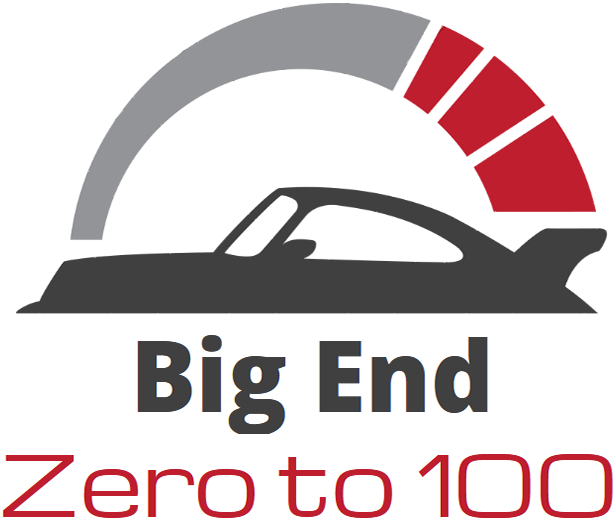
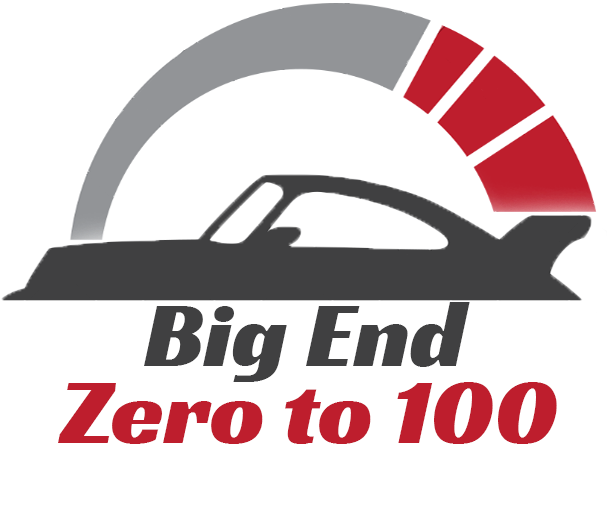
Updated Code Page
Updated Code.html
Updated BigEndIcon
Updated BrandIconLogo
Updated BrandNameLogo
Updated favicon-32x32

Changed region(s): [[0.0, 0.3077, 1.0, 1.0], [0.3404, 0.9231, 0.4332, 1.0]]

diff --git a/app.html b/app.html
@@ -2,7 +2,7 @@
 <html lang="en" class="h-100">
 
 <head>
-    <title>App Name: A Coding Project by William Kategianes</title>
+    <title>Big End: A Coding Project by William Kategianes</title>
     <!-- Required meta tags -->
     <meta charset="utf-8">
     <meta name="viewport" content="width=device-width, initial-scale=1, shrink-to-fit=no">
@@ -22,7 +22,7 @@
 <!-- ===== Nav Section ===== -->
 <nav class="navbar navbar-expand-md navbar-dark fixed-top">
     <div class="container-fluid">
-        <a class="navbar-brand" href="#"><img src="img/BrandIconLogo.png" class="d-inline-block align-text-top" width="30" height="24" > App Name</a>
+        <a class="navbar-brand logofont" href="#"><img src="img/BrandIconLogo.png" class="d-inline-block align-text-top" width="30" height="30" > Big End</a>
         <button class="navbar-toggler" type="button" data-bs-toggle="collapse" data-bs-target="#navbarCollapse"
             aria-controls="navbarCollapse" aria-expanded="false" aria-label="Toggle navigation">
             <span class="navbar-toggler-icon"></span>
@@ -51,8 +51,47 @@
 
 <!-- ===== Main Section ===== -->
 <main class="flex-shrink-0">
-    <div class="container">
+    <div class="container mt-5">
+        <div class="row row-cols-1 row-cols-lg-2">
+            <div class="col col-lg-4 border-end border-2">
+                <h1>Big End: A Coding Project</h1>
+                <h4 class="lead">
+                    Live life one loop at a time. A javascript coding exercise using loops. Write a
+                    program that displays the numbers from 0 to 100. Display the evening numbers in <strong>BOLD.</strong>
+                </h4>
+                <h2 class="mt-5 border-bottom border-2">Instructions</h2>
+                <p>Enter a starting value and a ending value. Press the button and the values will appear.</p>
 
+            </div>
+
+            <div class="col col-lg-8">
+                <div>
+                    <h5>Enter Values</h5>
+                    <form class="row gy-2 gx-3">
+                        <div class="col">
+                            <input id="startValue" type="number" class="form-control" placeholder="Start Value" value="0" aria-label="Start Value">
+                        </div>
+                        <div class="col">
+                            <input id="endValue" type="number" class="form-control" placeholder="End Value" value="100" aria-label="End Value">
+                        </div>
+                        <div class="col-12 d-flex justify-content-end">
+                            <button id="btnSubmit" type="button" class="btn btn-dark btn-lg">Display the Big End</button>
+
+                        </div>
+                    </form>
+
+                    <h2 class="mt-5 border-bottom border-2">Results</h2>
+                    <div class="table-responsive">
+                        <table class="table table-striped table-sm">
+                            <tbody id="results">
+                                <!-- Results Go Here -->
+
+                            </tbody>
+                        </table>
+                    </div>
+                </div>
+            </div>
+        </div>
     </div>
 </main>
 

diff --git a/index.html b/index.html
@@ -2,7 +2,7 @@
 <html lang="en" class="h-100">
 
 <head>
-    <title>App Name: A Coding Project by William Kategianes</title>
+    <title>Big End: A Coding Project by William Kategianes</title>
     <!-- Required meta tags -->
     <meta charset="utf-8">
     <meta name="viewport" content="width=device-width, initial-scale=1, shrink-to-fit=no">
@@ -15,6 +15,11 @@
     <link rel="icon" type="image/png" href="img/favicon-32x32.png">
 
     <script src="https://kit.fontawesome.com/5db21ba9c6.js" crossorigin="anonymous"></script>
+
+    <!-- Google Fonts for Racing Sans One -->
+    <link rel="preconnect" href="https://fonts.googleapis.com">
+    <link rel="preconnect" href="https://fonts.gstatic.com" crossorigin>
+    <link href="https://fonts.googleapis.com/css2?family=Racing+Sans+One&display=swap" rel="stylesheet"> 
   
 </head>
 
@@ -22,7 +27,7 @@
 <!-- ===== Nav Section ===== -->
 <nav class="navbar navbar-expand-md navbar-dark fixed-top">
     <div class="container-fluid">
-        <a class="navbar-brand" href="#"><img src="img/BrandIconLogo.png" class="d-inline-block align-text-top" width="30" height="24" > App Name</a>
+        <a class="navbar-brand logofont" href="#"><img src="img/BrandIconLogo.png" class="d-inline-block align-text-top" width="30" height="30" > Big End</a>
         <button class="navbar-toggler" type="button" data-bs-toggle="collapse" data-bs-target="#navbarCollapse"
             aria-controls="navbarCollapse" aria-expanded="false" aria-label="Toggle navigation">
             <span class="navbar-toggler-icon"></span>
@@ -53,7 +58,7 @@
        <div class="container col-xxl-8 px-4 py-5">
             <div class="row g-5 py-5 row-cols-1 row-cols-lg-2">
                 <div class="col order-last order-lg-first">
-                    <h1 class="display-5 fw-bold lh-1 mb-3">App Name: A Coding Project</h1>
+                    <h1 class="display-5 fw-bold lh-1 mb-3">Big End: A Coding Project</h1>
                     <h4 class="lead">Live life one loop at a time. A javascript coding exercise using loops. Write a
                         program that displays the numbers from 0 to 100. Display the evening numbers in <strong>BOLD.</strong></h4>
                         <ul class="fa-ul pt-2 checklist">

diff --git a/code.html b/code.html
@@ -2,7 +2,7 @@
 <html lang="en" class="h-100">
 
 <head>
-    <title>App Name: A Coding Project by William Kategianes</title>
+    <title>Big End: A Coding Project by William Kategianes</title>
     <!-- Required meta tags -->
     <meta charset="utf-8">
     <meta name="viewport" content="width=device-width, initial-scale=1, shrink-to-fit=no">
@@ -23,7 +23,7 @@
 <!-- ===== Nav Section ===== -->
 <nav class="navbar navbar-expand-md navbar-dark fixed-top">
     <div class="container-fluid">
-        <a class="navbar-brand" href="#"><img src="img/BrandIconLogo.png" class="d-inline-block align-text-top" width="30" height="24" > App Name</a>
+        <a class="navbar-brand logofont" href="#"><img src="img/BrandIconLogo.png" class="d-inline-block align-text-top" width="30" height="30" > Big End</a>
         <button class="navbar-toggler" type="button" data-bs-toggle="collapse" data-bs-target="#navbarCollapse"
             aria-controls="navbarCollapse" aria-expanded="false" aria-label="Toggle navigation">
             <span class="navbar-toggler-icon"></span>
@@ -53,7 +53,7 @@
 <!-- ===== Main Section ===== -->
 <main class="flex-shrink-0">
     <div class="container py-4 px-5 mt-5">
-        <h2 class="border-1 border-bottom border-dark">The Code for App Name</h2>
+        <h2 class="border-1 border-bottom border-dark">The Code for Big End</h2>
         <div class="row row-cols-1 row-cols-lg-2">
             <div class="col-lg-8">
                 <pre class="line-numbers">

diff --git a/css/site.css b/css/site.css
@@ -73,5 +73,10 @@ code[class*="language-"],
     white-space: pre-wrap;
     word-break: break-all;
     word-wrap: break-word;
-    }
+}
+
+.logofont{
+    font-family: 'Racing Sans One', cursive;
+}
+
 
